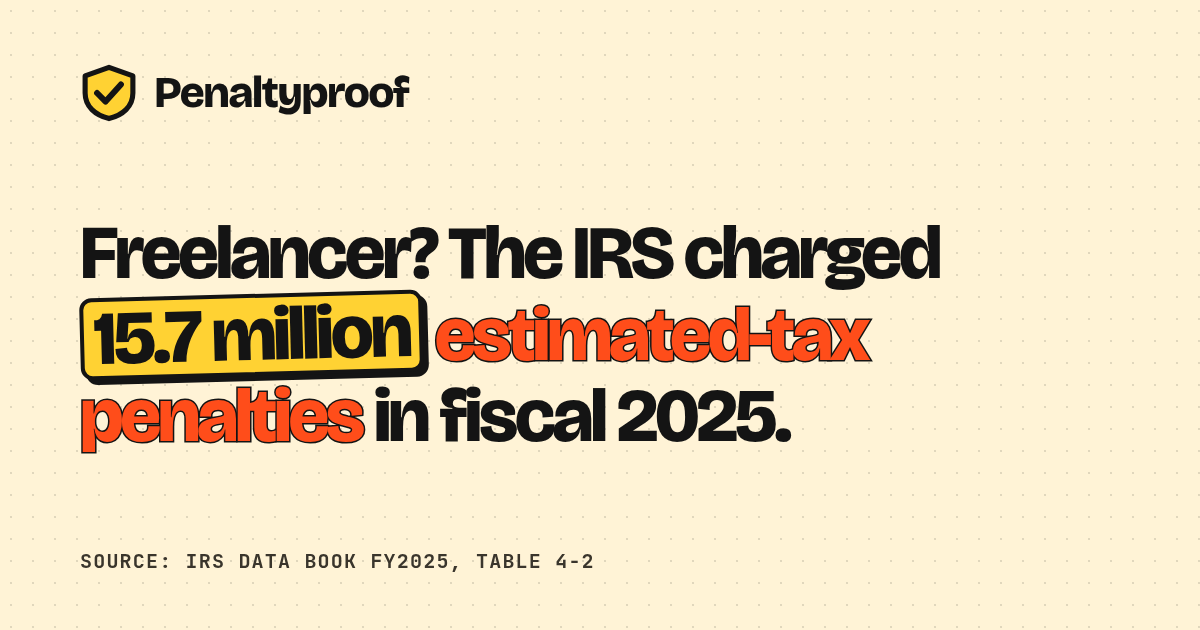
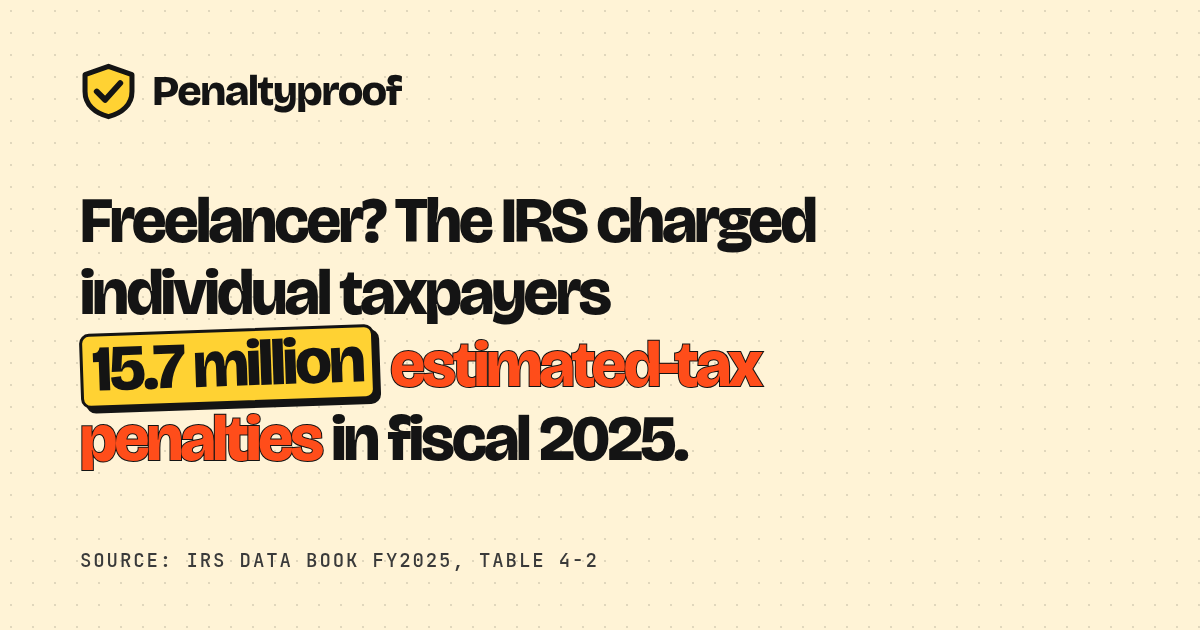
Hero fits the first screen with the longer stat; OG card with the new wording
Phone h1 46px -> 40px (36px under 360px), tighter sub/CTA spacing: CTA above the fold at 320x640, 375x667, 390x844.
Desktop h1 capped at 64px, 52px on screens under 800px tall; CTA above the fold at 1280x720, 1366x768, 1440x900.
app/opengraph-image.png re-rendered with "The IRS charged individual taxpayers 15.7 million...".

diff --git a/app/(site)/page.tsx b/app/(site)/page.tsx
@@ -43,13 +43,13 @@ export default function LandingPage() {
     <main className="flex-1">
       {/* Hero. Phone: eyebrow, headline, sub, CTA and the example link fill the first screen; the poster follows. */}
       <section
-        className={`${GUTTER} grid gap-16 pt-6 pb-4 sm:pt-10 lg:grid-cols-[minmax(0,1fr)_minmax(0,360px)] lg:items-center lg:gap-12 lg:pt-10 lg:pb-8`}
+        className={`${GUTTER} grid gap-16 pt-6 pb-4 sm:pt-10 lg:grid-cols-[minmax(0,1fr)_minmax(0,360px)] lg:items-center lg:gap-12 lg:pt-6 lg:pb-8`}
       >
         <div className="flex min-w-0 flex-col">
           <p className="mt-2 mb-3 font-mono text-[13px] leading-none font-bold tracking-[0.1em] text-ink uppercase min-[481px]:hidden">
             Freelancer?
           </p>
-          <h1 className="text-[2.875rem] leading-none font-extrabold tracking-[-0.045em] text-ink [font-variation-settings:'opsz'_96] min-[481px]:text-[clamp(2.75rem,8vw,4.5rem)] min-[481px]:leading-[0.94] lg:text-[clamp(3.25rem,calc((100vw_-_488px)/9.6),4.5rem)] max-[359px]:text-[2.5rem]">
+          <h1 className="text-[2.5rem] leading-none font-extrabold tracking-[-0.045em] text-ink [font-variation-settings:'opsz'_96] min-[481px]:text-[clamp(2.75rem,8vw,4.5rem)] min-[481px]:leading-[0.94] lg:text-[clamp(3.25rem,calc((100vw_-_488px)/11),4rem)] lg:[@media(max-height:800px)]:text-[3.25rem] max-[359px]:text-[2.25rem]">
             <span className="max-[480px]:hidden">Freelancer? The IRS charged individual taxpayers </span>
             <span className="my-[0.04em] inline-block -rotate-[1.5deg] rounded-md border-3 border-ink bg-sun px-[0.12em] shadow-[3px_3px_0_0_var(--color-ink)] sm:shadow-chip lg:shadow-[4px_4px_0_0_var(--color-ink)]">
               15.7&nbsp;million
@@ -61,7 +61,7 @@ export default function LandingPage() {
             <span className="min-[481px]:hidden">on individual taxpayers </span>
             in fiscal&nbsp;2025.
           </h1>
-          <p className="mt-4 max-w-[560px] text-[17px] leading-[1.5] text-ink min-[481px]:hidden">
+          <p className="mt-3 max-w-[560px] text-[17px] leading-[1.5] text-ink min-[481px]:hidden">
             Know what to set aside from every payment and what to pay by each deadline, so you don’t owe an
             underpayment penalty when you pay on time.
           </p>
@@ -69,7 +69,7 @@ export default function LandingPage() {
             Penaltyproof tells you how much to set aside from every payment, and the minimum to pay the IRS by
             each quarterly deadline, so you don’t owe that penalty when you pay on time.
           </p>
-          <div className="mt-6 sm:mt-8">
+          <div className="mt-5 sm:mt-8 lg:mt-6">
             <HeroActions />
           </div>
         </div>
